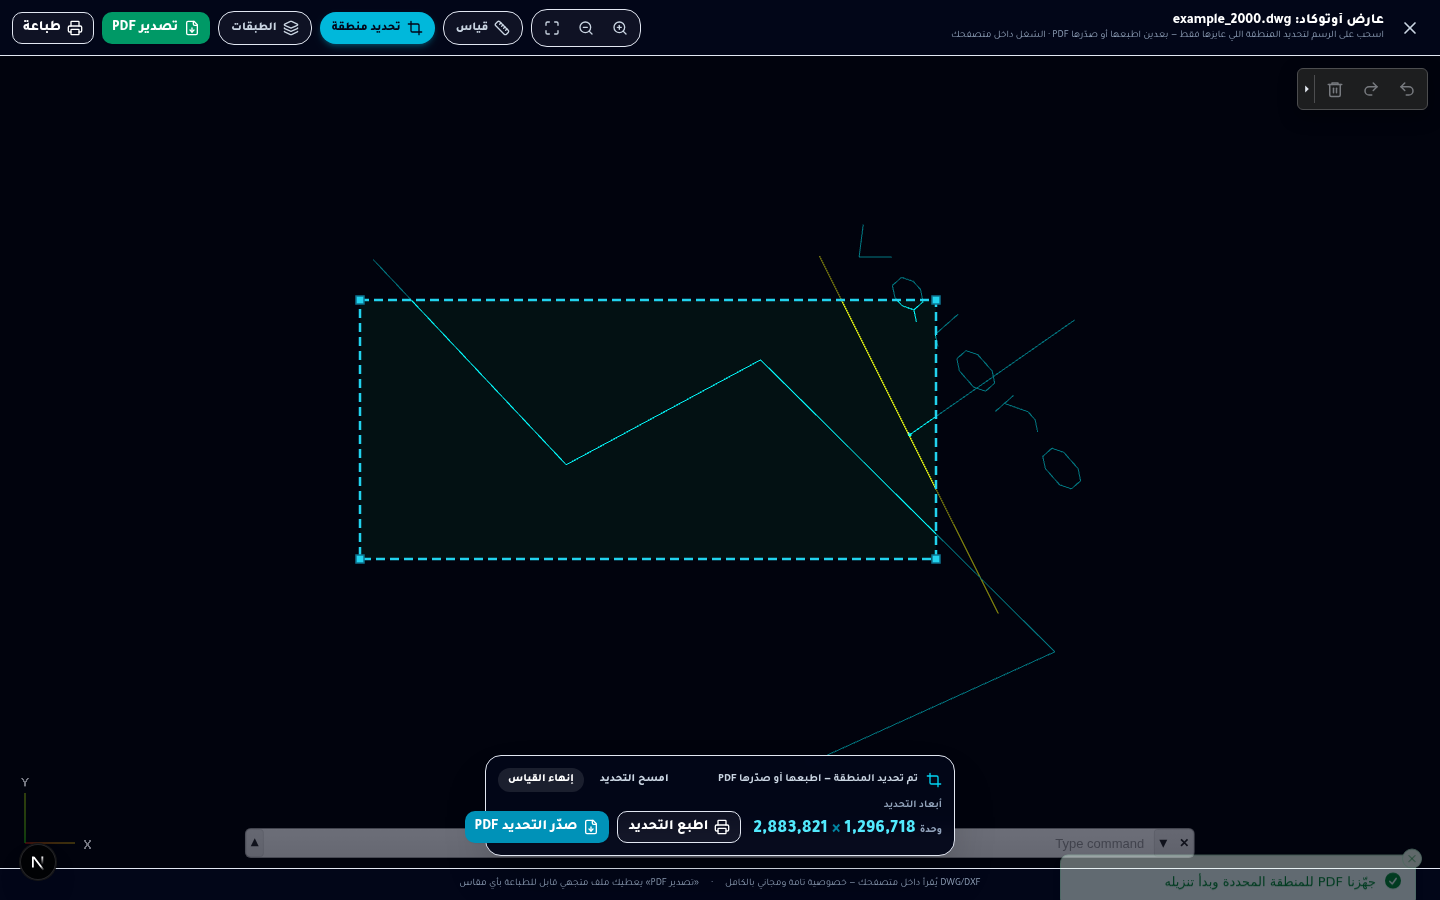
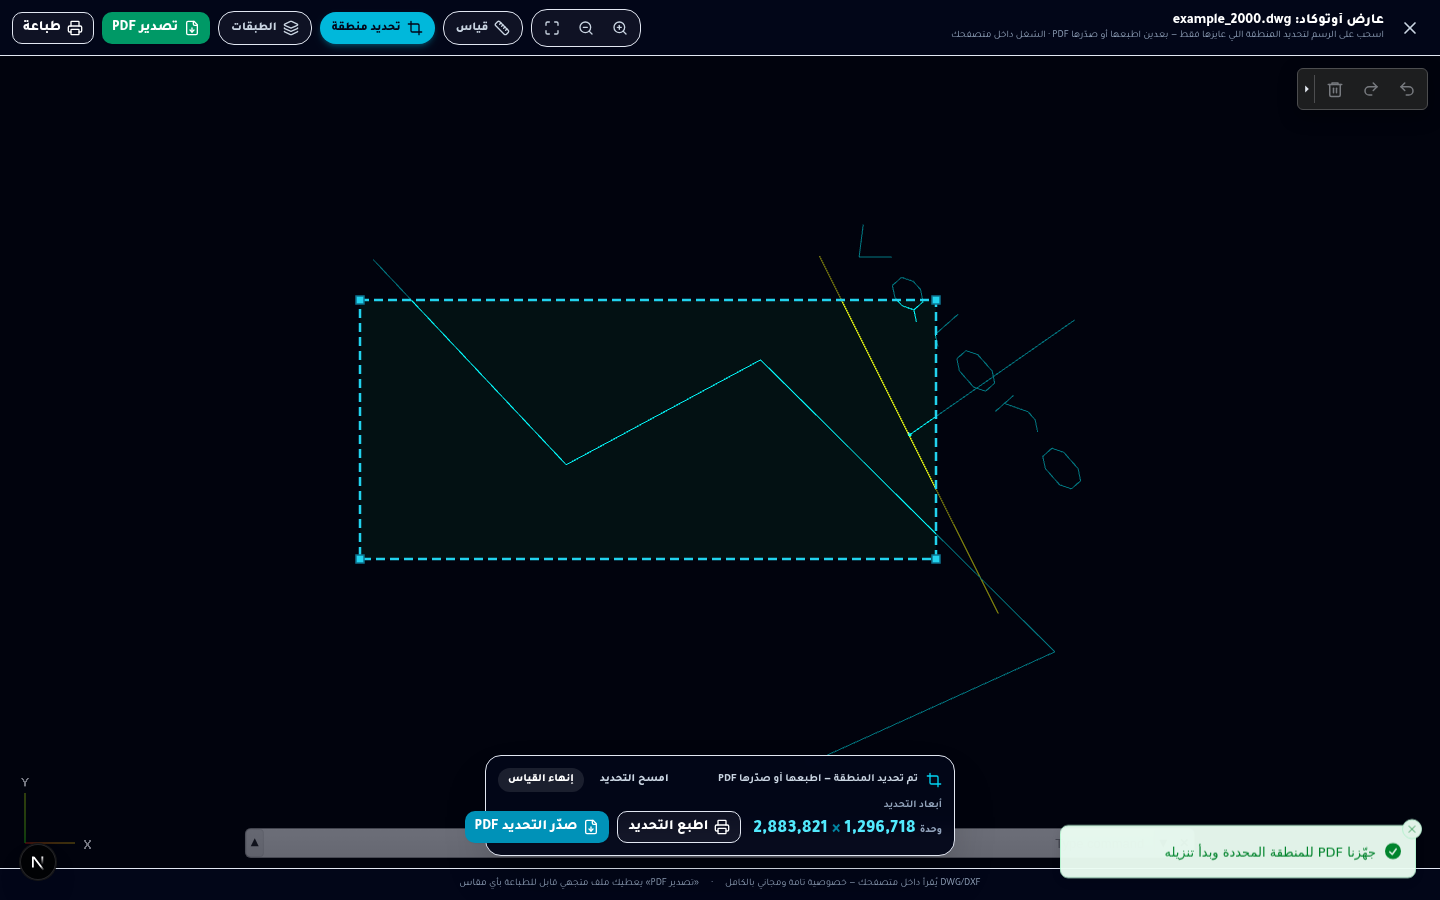
الدفعة الثانية لأخطاء كونسول العارض: تحصين عائلة pointToBox كاملة (pick يعيد [] عند غياب التخطيط + flyTo + مُعادِلَي mode/center) بنفس فلسفة zoomTo + توسيع فلتر الضجيج ليلتقط Illegal Parameters بأي صيغة (مسارات التحويل المؤجل/العابر بصيغ بلا conversion stage) + شبكة أمان للرفض غير الملتقط — 18/18 E2

Changed region(s): [[0.7188, 0.9022, 1.0, 1.0]]

diff --git a/src/components/pdf-station/cad-viewer.tsx b/src/components/pdf-station/cad-viewer.tsx
@@ -309,6 +309,15 @@ function classifyOpenError(err: unknown): OpenFailKind {
 const FATAL_WASM_RE =
   /memory access out of bounds|worker_oom|out of memory|abort\(|runtime abort/i;
 const BENIGN_ENTITY_STAGE_RE = /conversion stage ['"]?ENTITY['"]?/i;
+/* رسالة هندسة الكيانات المعطوبة نفسها (AcCmErrors.ILLEGAL_PARAMETERS =
+   new ReferenceError('Illegal Parameters')): مسارات أخرى غير مرحلة ENTITY
+   تلتقطه وتسجله بصيغة بلا «conversion stage» فكانت تفلت من الفلتر —
+   AcTrView2d سطر 4109 «Deferred entity geometry failed» و2461 «Transient
+   entity geometry failed» و1526 «Failed to convert overlay entity» و3236
+   و3612 — وكلها try/catch داخل المكتبة تكمل بعدها الرسم عادي (بلاغ المستخدم
+   ×4 كان منها). مطابقة الرسالة ذاتها تكفي: تطبيقنا لا يرمي هذا النص أبدًا،
+   والأنماط القاتلة تبقى ظاهرة */
+const BENIGN_ILLEGAL_PARAMS_RE = /\billegal\s+parameters\b/i;
 
 /* تنسيق وسيط سجل: الرمز يُلحق فقط عند وجوده — إلحاقه الأعمى كان يترك
    «code:» فارغة بعد سطر المرحلة فيلتقط الاستخراج اسم الخطأ التالي بدله
@@ -330,7 +339,10 @@ function installCadNoiseFilter(): void {
   console.error = (...args: unknown[]) => {
     try {
       const s = args.map(fmtErrArg).join(" ");
-      if (BENIGN_ENTITY_STAGE_RE.test(s) && !FATAL_WASM_RE.test(s)) {
+      if (
+        (BENIGN_ENTITY_STAGE_RE.test(s) || BENIGN_ILLEGAL_PARAMS_RE.test(s)) &&
+        !FATAL_WASM_RE.test(s)
+      ) {
         quiet(...args);
         return;
       }
@@ -341,6 +353,35 @@ function installCadNoiseFilter(): void {
   };
 }
 installCadNoiseFilter();
+
+/* شبكة أمان للرفض غير الملتقط: بعض المسارات المؤجلة قد تمرّر نفس الخطأ السليم
+   كوعد مرفوض لا أحد يمسكه («Uncaught (in promise) ReferenceError») — نهدّئه
+   هنا أيضًا بنفس الشرط الصارم، وأي رفض آخر يبقى ظاهرًا كما هو */
+let benignRejectionNetInstalled = false;
+function installBenignRejectionNet(): void {
+  if (benignRejectionNetInstalled || typeof window === "undefined") return;
+  benignRejectionNetInstalled = true;
+  window.addEventListener("unhandledrejection", (ev) => {
+    try {
+      const r = ev?.reason as { message?: string } | string | undefined;
+      const msg = typeof r === "string" ? r : r?.message;
+      if (
+        msg &&
+        BENIGN_ILLEGAL_PARAMS_RE.test(msg) &&
+        !FATAL_WASM_RE.test(msg)
+      ) {
+        ev.preventDefault();
+        (console.debug?.bind(console) ?? console.error)(
+          "[cad] رفض سليم من محرك الرسم (كيان معطوب تم تجاهله):",
+          msg
+        );
+      }
+    } catch {
+      /* الشبكة لا تكسر التدفق */
+    }
+  });
+}
+installBenignRejectionNet();
 
 /* مراقبة سجل الأخطاء: المكتبة تسجّل فشل التحليل في console.error لكن وعد openDocument
    لا يُحسم أبدًا عند انهيار عامل wasm (worker_oom) — فتظهر دوّامة أبدية بدل رسالة الخطأ.
@@ -414,13 +455,119 @@ function hardenZoomOnProto(proto: object | null): boolean {
   return hardenZoomOnProto(Object.getPrototypeOf(proto));
 }
 
+/* ── تحصين عائلة التفاعلات الأخرى بنفس النمط: المكتبة تحمي screenToWorld/
+   worldToScreen وتنسى بقية الدوال التي تصل إلى activeLayoutView مباشرة:
+   · pick → activeLayoutView.pointToBox(…) — «reading 'pointToBox'» عند النقر
+     أثناء سباق تهيئة/تفكيك التخطيط (بلاغ المستخدم الجديد)
+   · flyTo → activeLayoutView.flyTo(…) بلا فحص
+   · مُعادِل mode يكتب بلا فحص (القارئ محميّ في المكتبة نفسها) ومُعادِل center
+     قارئه وكاتبه بلا فحص
+   الجرد الكامل للاستخدامات غير المحمية في AcTrView2d: 797 (مُغطّى بتحصين
+   _progressiveOpenFit) و907 و1284/1287 و1808 (zoomTo محصّن) و1989
+   و2178-2215 (pick) */
+type GuardedFn = (...args: unknown[]) => unknown;
+type ViewLike = { activeLayoutView?: unknown };
+
+const viewReady = (self: unknown): boolean => {
+  try {
+    return (self as ViewLike | null)?.activeLayoutView != null;
+  } catch {
+    return false;
+  }
+};
+
+function guardVoidMethod(
+  p: Record<string, unknown>,
+  key: string,
+  flag: string
+): boolean {
+  const orig = p[key];
+  if (typeof orig !== "function" || p[flag] === true)
+    return typeof orig === "function";
+  p[key] = function (this: ViewLike, ...args: unknown[]) {
+    if (!viewReady(this)) return undefined;
+    return (orig as GuardedFn).apply(this, args);
+  };
+  p[flag] = true;
+  return true;
+}
+
+/* pick يعيد مصفوفة النتائج — عند غياب التخطيط النشط لا شيء يُنتقى */
+function guardPick(p: Record<string, unknown>): boolean {
+  const orig = p.pick;
+  if (typeof orig !== "function" || p.__pickSafe === true)
+    return typeof orig === "function";
+  p.pick = function (this: ViewLike, ...args: unknown[]) {
+    if (!viewReady(this)) return [];
+    return (orig as GuardedFn).apply(this, args);
+  };
+  p.__pickSafe = true;
+  return true;
+}
+
+function guardAccessors(
+  p: Record<string, unknown>,
+  key: string,
+  flag: string,
+  fallback: unknown,
+  guardSetOnly: boolean
+): boolean {
+  const desc = Object.getOwnPropertyDescriptor(p, key);
+  if (!desc || p[flag] === true) return !!desc;
+  const next: PropertyDescriptor = {
+    configurable: desc.configurable,
+    enumerable: desc.enumerable,
+  };
+  if (desc.get) {
+    if (guardSetOnly) {
+      next.get = desc.get;
+    } else {
+      const get = desc.get;
+      next.get = function (this: ViewLike) {
+        if (!viewReady(this)) return fallback;
+        return get.call(this);
+      };
+    }
+  }
+  if (desc.set) {
+    const set = desc.set;
+    next.set = function (this: ViewLike, v: unknown) {
+      if (!viewReady(this)) return;
+      set.call(this, v);
+    };
+  }
+  try {
+    Object.defineProperty(p, key, next);
+    p[flag] = true;
+    return true;
+  } catch {
+    return false;
+  }
+}
+
+function hardenCadInteractions(proto: object | null): boolean {
+  if (!proto || (proto as unknown) === Object.prototype) return false;
+  const p = proto as Record<string, unknown>;
+  if (typeof p.pick !== "function" && typeof p.flyTo !== "function")
+    return false; /* ليس صنف العارض */
+  let any = false;
+  if (guardPick(p)) any = true;
+  if (guardVoidMethod(p, "flyTo", "__flySafe")) any = true;
+  if (guardAccessors(p, "mode", "__modeSafe", undefined, true)) any = true;
+  if (guardAccessors(p, "center", "__centerSafe", null, false)) any = true;
+  return any;
+}
+
 async function hardenCadZoomTo(): Promise<void> {
   if (zoomProtoHardened) return;
   try {
     const mod = await import("@mlightcad/cad-simple-viewer");
     const proto = (mod as { AcTrView2d?: { prototype?: object } }).AcTrView2d
       ?.prototype;
-    if (proto) hardenZoomOnProto(proto);
+    if (proto) {
+      hardenZoomOnProto(proto);
+      hardenCadInteractions(proto);
+    }
   } catch {
     /* المكتبة غير جاهزة بعد — تُجرَّب مع الفتح القادم */
   }
@@ -431,7 +578,11 @@ async function hardenCadZoomTo(): Promise<void> {
    يصل إلى activeLayoutView.zoomTo مباشرة فيرمي عند غياب التخطيط */
 function hardenViewInstance(view: unknown): void {
   if (!view || typeof view !== "object") return;
-  if (!zoomProtoHardened) hardenZoomOnProto(Object.getPrototypeOf(view));
+  if (!zoomProtoHardened) {
+    const pr = Object.getPrototypeOf(view);
+    hardenZoomOnProto(pr);
+    hardenCadInteractions(pr);
+  }
   const fit = (view as { _progressiveOpenFit?: object })._progressiveOpenFit;
   const f = fit as Record<string, unknown> & { __fitSafe?: boolean };
   if (f && !f.__fitSafe) {

diff --git a/worklog.md b/worklog.md
@@ -823,3 +823,22 @@ Work Log:
 Stage Summary:
 - الخطأان المبلَّغان من المستخدم مُحيَّدان من الجذر: «Illegal Parameters» لم يعد يُسقط افتتاحات سليمة (مرحلة ENTITY الحميدة تُهدَّأ بدل رفض الفتح) و«reading 'zoomTo'» لم يعد يُرمى أبدًا (zoomTo محصَّنة حيث تحمي المكتبة نظيراتها) — وكُشف وأُصلح خلل استخراج رمز OOM الوراثي الذي جعل تصنيف الانهيار يعطي الرمز الخطأ منذ المهمة 41.
 - الملفات: cad-viewer.tsx (fmtErrArg + FATAL_WASM_RE/BENIGN_ENTITY_STAGE_RE + installCadNoiseFilter + watchStageFailure المنقّح + hardenZoomOnProto/hardenCadZoomTo/hardenViewInstance + استدعاؤها في الفتح وال destruction وgetViewFull) وdwgtest/degenerate.dxf الجديدة؛ e2e_cad_console_fix.sh وtest_stage_classify.js جديدان؛ لقطات 112–116.
+
+---
+Task ID: 43
+Agent: Main Agent (Z.ai)
+Task: الدفعة الثانية من أخطاء الكونسول المبلَّغة — «Illegal Parameters» ×4 (Console ReferenceError بصيغة بلا conversion stage) + «Cannot read properties of undefined (reading 'pointToBox')» ×1 (Runtime TypeError).
+
+Work Log:
+- **فك شفرة بلاغ pointToBox**: جرد AcTrView2d بالكامل فوجدت أن المكتبة تحمي screenToWorld/worldToScreen وتنسى أربع خانات أخرى تصل إلى activeLayoutView مباشرة: pick → activeLayoutView.pointToBox(…) (سطر 2180 — يرمي عند النقر أثناء سباق تهيئة/تفكيك التخطيط، وهو بلاغ المستخدم)، flyTo (1989)، مُعادِل mode الكاتب (907)، ومُعادِل center قارئه وكاتبه (1284/1287). استخدام 797 (المغلق التقدمي) كان مُغطًّى سلفًا بتحصين _progressiveOpenFit.
+- **التحصين العائلي**: hardenCadInteractions جديدة بثلاثة مساعدين — guardVoidMethod (flyTo: لا تخطيط نشط = لا شيء يطير)، guardPick (pick يعيد [] عند غياب التخطيط — عقد الدالة مصفوفة نتائج)، guardAccessors (تعريف خصائص بديل يحرس القارئ/الكاتب — mode يُحرس كاتبًا فقط لأن قارئه محميّ في المكتبة، وcenter يُحرس بالاتجاهين مع fallback=null). كلها بعلامات idempotent (__pickSafe/__flySafe/__modeSafe/__centerSafe) وتُثبَّت مع hardenCadZoomTo قبل إنشاء أي عارض وعلى النسخة احتياطًا في hardenViewInstance.
+- **فك شفرة بلاغ Illegal Parameters ×4**: بلاغ المستخدم «Console ReferenceError» يعني المكتبة التقطت الخطأ وبعتته console.error — ومصادرها اكتُشفت حرفيًا: AcTrView2d سطر 4109 «Deferred entity geometry failed» (التحويل المؤجل للنصوص/الرموز) و2461 «Transient entity geometry failed» و1526 «Failed to convert overlay entity» و3236 و3612 — كلها try/catch داخل المكتبة تكمل الرسم بعدها عاديًا، لكن صيغة السطور بلا «conversion stage» فكانت تفلت من فلتر المهمة 42 الذي يطابق مرحلة ENTITY فقط.
+- **الفلتر الموسّع**: BENIGN_ILLEGAL_PARAMS_RE = /\billegal\s+parameters\b/i — فلتر الضجيج الدائم يهدّئ أي console.error تحتوي الرسالة (منطق التضمين: AcCmErrors.ILLEGAL_PARAMETERS = new ReferenceError('Illegal Parameters') من @mlightcad/common، وتطبيقنا لا يرمي هذا النص أبدًا) مع بقاء FATAL_WASM_RE قاتلًا كما هو.
+- **شبكة أمان الرفض**: installBenignRejectionNet — مستمع unhandledrejection يمنع الطباعة الافتراضية لنفس الرسالة السليمة إن مرّت كوعد مرفوض بلا ملتقط (تأمين مستقبلي؛ مسارات التحويل المؤجل قد ترفض بدل تسجيل) — أي رفض آخر يبقى ظاهرًا.
+- **حادثة أداة قياس موثقة**: كشّاف الأخطاء السطري (rg -v debug) تسربت إليه سطور استمرار المدخلات متعددة الأسطر (at <anonymous>…) لأنها بلا وسم [debug] — أعيد بناؤه بawk واعٍ بالمستوى يتتبع وسم المدخلة الحالية؛ اكتُشف من الـraw dump أن الفشلين كانا إيجابيين كاذبين والمنتج سليم (المحاكاة ×2 هُدّئت debug، boom-real عدى error، الرفض العائم شبكته الشبكة).
+- **E2E scripts/e2e_cad_console_fix.sh — 18/18 ✓ (لقطات 112-117)**: أقسام جديدة — تحصين pick/flyTo/mode/center على proto@0، نداء pick مباشر يعيد مصفوفة 52 كيانًا (انحدار انتقاء سليم)، محاكاة سليمة ×2 + رفض عائم تُهدَّأ مع بقاء الخطأ الحقيقي (boom-real) ظاهرًا، ولا pointToBox ولا zoomTo عبر الجلسة كلها. انحدارات كاملة خضراء: DXF منحل يفتح بلا حوار، تكبير/ملاءمة، تحديد منطقة + تصدير PDF (9593B)، قياس (2,446,421 وحدة). انحدار الفتح القوي e2e_dwg_open_robust.sh: 9/10 (مطابق للخط الأساسي الموثق).
+- tsc: صفر أخطاء src/ · eslint: نظيف · فحص أمني: لا أسرار · سكربتا الترقيع المؤقتان حُذفا.
+
+Stage Summary:
+- الدفعة الثانية مُحيَّدة من الجذر: عائلة pointToBox كاملة (pick/flyTo/mode/center) محصّنة بنفس فلسفة zoomTo — لا تخطيط نشط = لا تفاعل يُنفَّذ — و«Illegal Parameters» صار يُهدَّأ أينما ظهر (console.error بأي صيغة أو وعد مرفوض عائم) لأنه بحكم تصميم المكتبة نفسها ضجيج كيانات تالفة تتجاهله وتكمل — والكونسول نظيف من الأخطاء الثلاثة المبلَّغة عبر 18 فحص E2E وكل الانحدارات.
+- الملفات: cad-viewer.tsx (BENIGN_ILLEGAL_PARAMS_RE + installBenignRejectionNet + viewReady/guardVoidMethod/guardPick/guardAccessors/hardenCadInteractions + ربطها في hardenCadZoomTo وhardenViewInstance) وe2e_cad_console_fix.sh (أقسام 3ب و8 و9 + كشّاف واعٍ بالمستوى) معدلة؛ لقطات 112-117.
